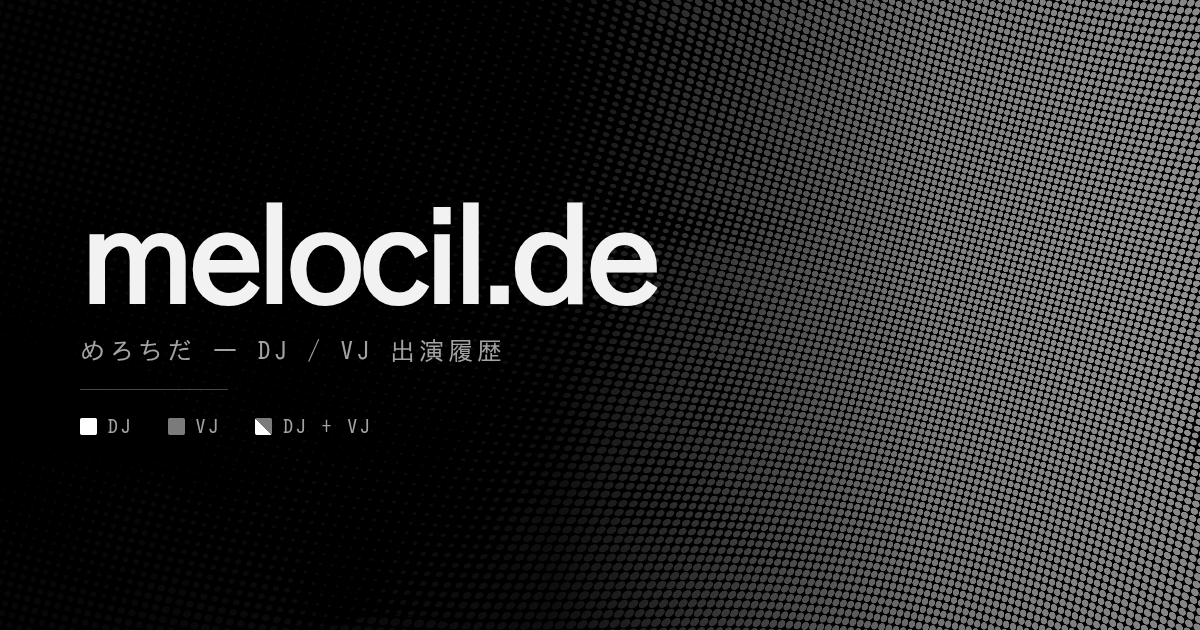
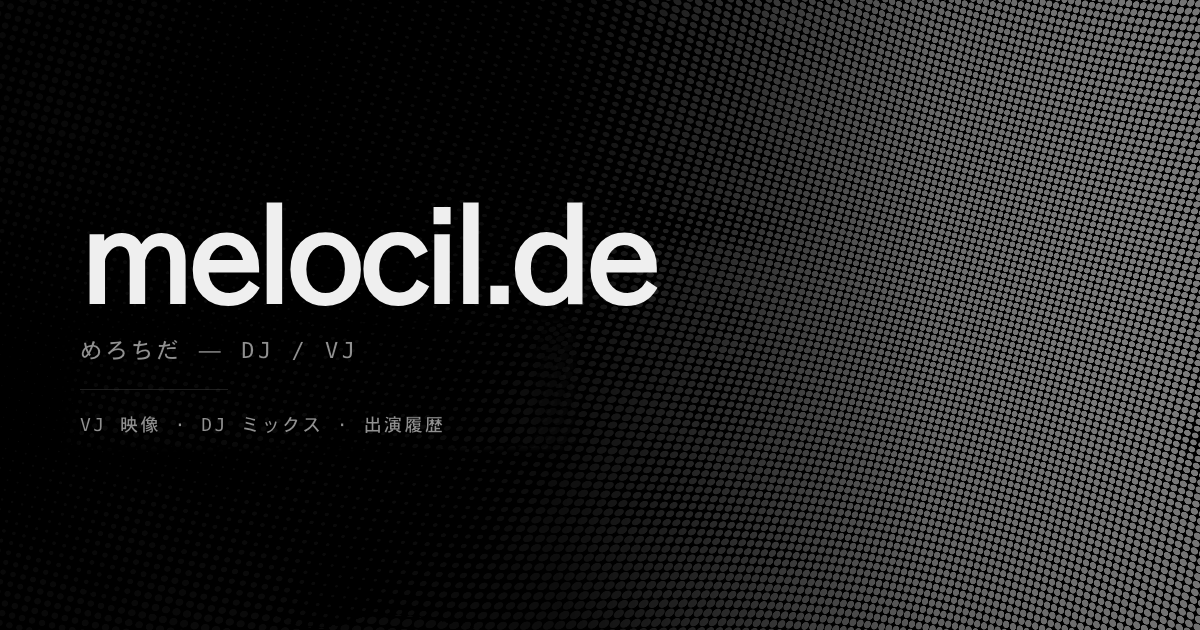
Update the OG image to cover the showcase

Changed region(s): [[0.0617, 0.5429, 0.4317, 0.573], [0.0617, 0.6635, 0.37, 0.6937]]

diff --git a/app/layout.tsx b/app/layout.tsx
@@ -11,7 +11,7 @@ const OG_IMAGE = {
   url: '/og.png',
   width: 1200,
   height: 630,
-  alt: 'melocil.de — めろちだ の DJ / VJ 出演履歴',
+  alt: 'melocil.de — めろちだ — DJ / VJ。VJ 映像・DJ ミックス・出演履歴',
 }
 
 export const metadata: Metadata = {
